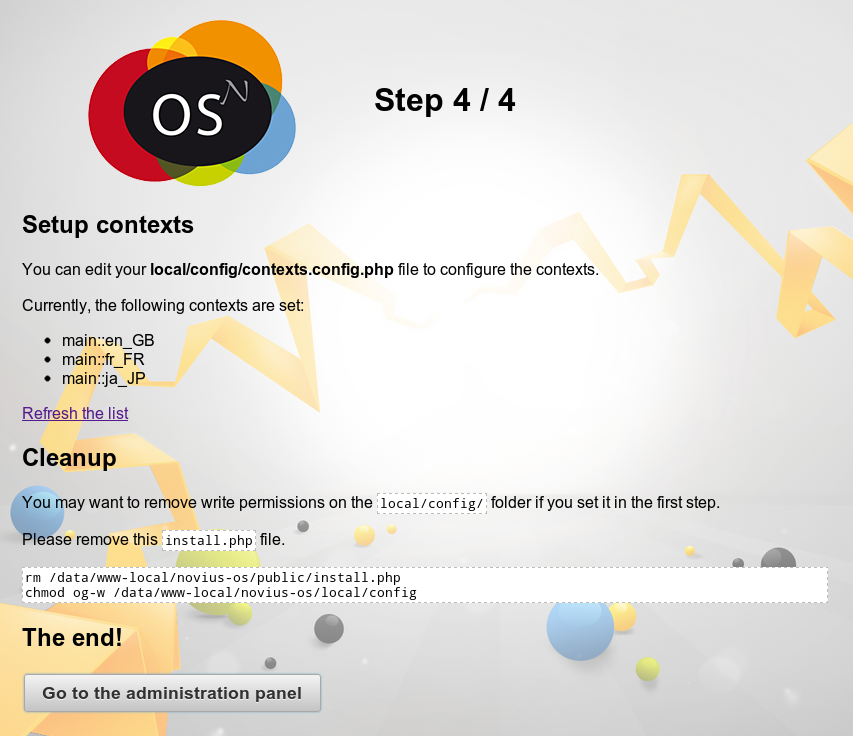
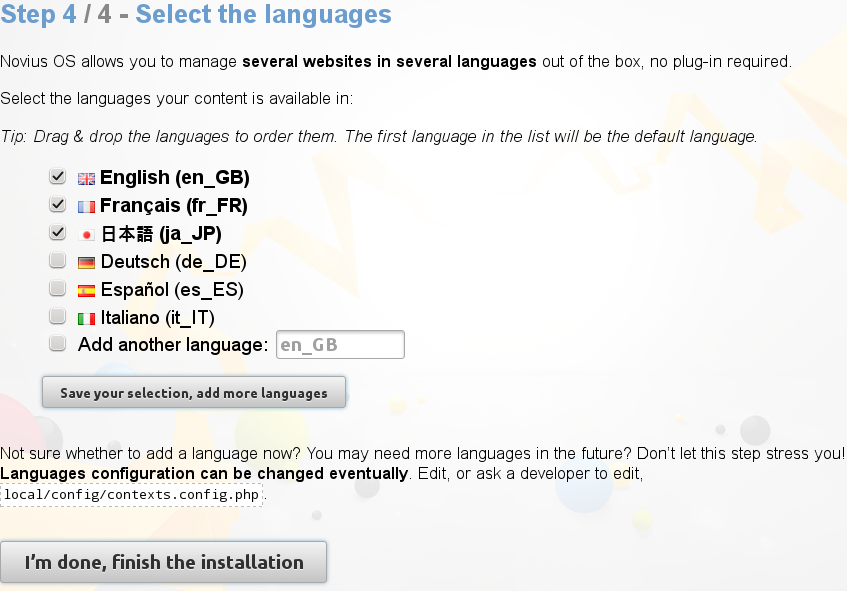
Refactoring setup wizard, new screenshots

diff --git a/source/install/setup_wizard.rst b/source/install/setup_wizard.rst
@@ -33,21 +33,17 @@ you these details. In other cases, here is an example for a ``localhost`` databa
     GRANT ALL PRIVILEGES ON `your_db_name`.* TO 'your_user_name'@localhost IDENTIFIED BY 'your_password';
     FLUSH PRIVILEGES;
 
-Fill in these four fields according to your database configuration.
+Fill in the four required fields according to your database configuration.
 
-.. image:: images/step-2.png
-	:alt: Step 2
-	:align: center
-
-This will create two files :file:`local/config/db.php` and :file:`local/config/crypt.php` and—more importantly-the
+This step will create two files :file:`local/config/db.php` and :file:`local/config/crypt.php` and—more importantly-the
 tables needed for Novius OS to run.
 
 Step 3: Creating the first administrator account
 --------------------------------------------------
 
-.. image:: images/step-3.png
-	:alt: Step 3
-	:align: center
+Fill the required fields for create the first administrator account of your Novius OS.
+Email and password will be used for the first connection.
+Those informations can be modified later in back-office.
 
 
 Step 4: Finishing the installation

diff --git a/source/manage/friendly_slug.rst b/source/manage/friendly_slug.rst
@@ -11,7 +11,7 @@ By default:
 * replace multiple ``-`` by one.
 
 But you can use others rules or define your own rule.
-You can also have special rules for :doc:`contexts <multi_context>`.
+You can also have special rules for :doc:`contexts </understand/multi_context/principles>`.
 
 Four setups of rules are defined:
 
